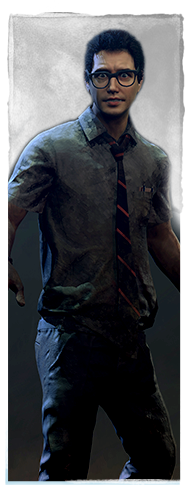
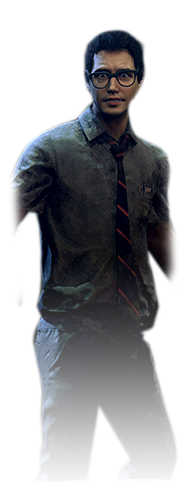
Perk Portraits+
Perk Portraits+

diff --git a/perks.html b/perks.html
@@ -13,6 +13,7 @@
 			<h1 id="PerkTitle">Welcome to DBD Helper!</h1>
 			<p id="PerkDesc">To get started, hover over any of the image on the right!</p>
 			<p id="TeachableDesc" style="color:orange"></p>
+			<img id="TeachableSrc" src="css/image/survivor/survivorportrait/dbd.png">
 		</div>
 
 		<div class="content">
@@ -41,11 +42,11 @@
 					<li><span><img onmouseover="showAITH(14, 4)" src="css/image/survivor/IronWill.png"></span></li>
 					<li><span><img onmouseover="showAITH(15, 0)" src="css/image/survivor/Kindred.png"></span></li>
 					<li><span><img onmouseover="showAITH(16, 1)" src="css/image/survivor/Leader.png"></span></li>
-					<li><span><img onmouseover="showAITH(17, 0)" src="css/image/survivor/LeftBehind.png"></span></li>
+					<li><span><img onmouseover="showAITH(17, 8)" src="css/image/survivor/LeftBehind.png"></span></li>
 					<li><span><img onmouseover="showAITH(18, 0)" src="css/image/survivor/Lightweight.png"></span></li>
 					<li><span><img onmouseover="showAITH(19, 9)" src="css/image/survivor/Lithe.png"></span></li>
 					<li><span><img onmouseover="showAITH(20, 10)" src="css/image/survivor/NoMither.png"></span></li>
-					<li><span><img onmouseover="showAITH(21, 8)" src="css/image/survivor/NoOneLeftBehind.png"></span></li>
+					<li><span><img onmouseover="showAITH(21, 0)" src="css/image/survivor/NoOneLeftBehind.png"></span></li>
 					<li><span><img onmouseover="showAITH(22, 6)" src="css/image/survivor/ObjectOfObsession.png"></span></li>
 					<li><span><img onmouseover="showAITH(23, 7)" src="css/image/survivor/OpenHanded.png"></span></li>
 					<li><span><img onmouseover="showAITH(24, 0)" src="css/image/survivor/PlunderersInstinct.png"></span></li>

diff --git a/js/perks-script.js b/js/perks-script.js
@@ -99,7 +99,20 @@ var SurvivorTeachable = ["<em>Standard Perk</em>",
 				 "<em>Teachable from William 'Bill' Overbeck</em>",
 				 "<em>Teachable from Feng Min</em>",
 				 "<em>Teachable from David King</em>"];
-						
+				
+var SurvivorTeachableImg = ["css/image/survivor/survivorportrait/dbd.png",
+							"css/image/survivor/survivorportrait/dwight.png",
+							"css/image/survivor/survivorportrait/meg.png",
+							"css/image/survivor/survivorportrait/claudette.png",
+							"css/image/survivor/survivorportrait/jake.png",
+							"css/image/survivor/survivorportrait/nea.png",
+							"css/image/survivor/survivorportrait/laurie.png",
+							"css/image/survivor/survivorportrait/ace.png",
+							"css/image/survivor/survivorportrait/bill.png",
+							"css/image/survivor/survivorportrait/feng.png",
+							"css/image/survivor/survivorportrait/david.png"];
+
+				
 var KillerPerkTitles = ["A Nurse's Calling",
 						"Agitation",
 						"Barbeque & Chili",
@@ -195,6 +208,7 @@ function showAITH(x, teach){
     document.getElementById("PerkTitle").innerHTML = SurvivorPerkTitles[x];
     document.getElementById("PerkDesc").innerHTML = SurvivorPerkDescriptions[x];
 	document.getElementById("TeachableDesc").innerHTML = SurvivorTeachable[teach];
+	document.getElementById("TeachableSrc").src = SurvivorTeachableImg[teach];
 	
 }
 

diff --git a/css/perks-stylesheet.css b/css/perks-stylesheet.css
@@ -14,22 +14,15 @@ body {
 }
 
 .sidebar img {
-  position: fixed;
-  height: auto;
-  left: 0;
-  top: 0px;
-  width: 30%;
-  text-align: center;
-  vertical-align: middle; 
-  margin: auto;
-}
+	position: fixed;
+	left: 0;
+	top: 25%;
+	width: 30%;
+	z-index: -5;
+	opacity:0.075;
+	transition: 0.3s ease;
 
-.image-wrapper {
-  display: inline-block; 
-  overflow: hidden; 
-  text-align: center;
-  vertical-align: middle;
-  margin: auto;   
+
 }
 
 .sidebar h1 {
